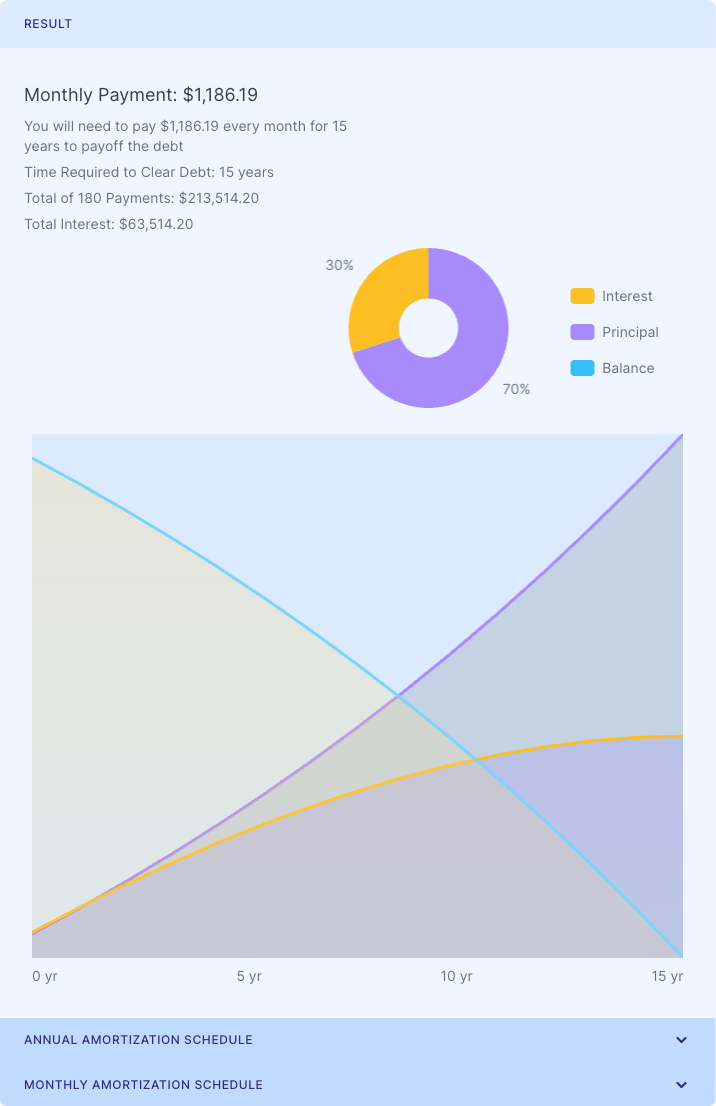
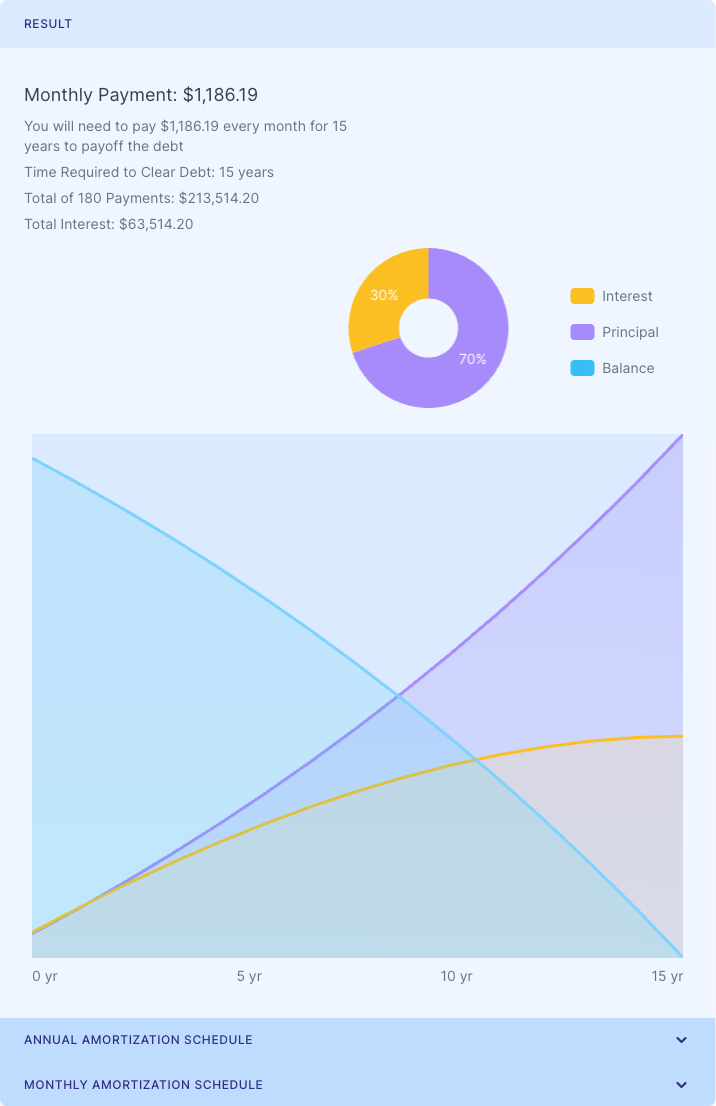
calculator changes commit

diff --git a/assets/js/chart.js b/assets/js/chart.js
@@ -22,6 +22,7 @@ import("./assets/js/lib/chartjs/chart.js").then((e) => {
 			tealGradientStart: 'rgba(56, 248, 222, 0.16)',
 			yellowGradientStop: 'rgba(250, 219, 139, 0)',
 			purpleGradientStop: 'rgba(104, 56, 248, 0)',
+			skyGradientStop: 'rgba(56, 248, 222, 0.16)',
 			gridColor: '#DBEAFE',
 			tooltipBackground: '#fff',
 			fractionColor: '#EDE9FE',
@@ -38,6 +39,7 @@ import("./assets/js/lib/chartjs/chart.js").then((e) => {
 			tealGradientStart: 'rgba(56, 248, 222, 0.16)',
 			yellowGradientStop: 'rgba(250, 219, 139, 0)',
 			purpleGradientStop: 'rgba(104, 56, 248, 0)',
+			skyGradientStop: 'rgba(56, 248, 222, 0.16)',
 			gridColor: '#162B64',
 			tooltipBackground: '#1C3782',
 			fractionColor: '#41467D',
@@ -84,17 +86,12 @@ import("./assets/js/lib/chartjs/chart.js").then((e) => {
 			data.datasets[0].data.forEach((datapoint, index) => {
 				const { x, y } = chart.getDatasetMeta(0).data[index].tooltipPosition();
 
-				let textXPosition = x >= 110 ? 'left' : 'right';
-
-				let xLine = x >= 110 ? x + 30 : x - 30;
-				let yLine = y >= 110 ? y + 30 : y - 30;
-
+				ctx.textAlign = 'center';
 				ctx.font = '14px Inter';
-				ctx.textAlign = textXPosition;
-				ctx.fillStyle = colors[theme].textColor;
+				ctx.fillStyle = '#fff';
 				ctx.textBaseline = 'middle';
-
-				ctx.fillText(`${datapoint}%`, xLine, yLine);
+				let toolTipText = datapoint != '0' ? datapoint + '%' : '';
+				ctx.fillText(toolTipText, x, y);
 			});
 		},
 	};
@@ -124,17 +121,12 @@ import("./assets/js/lib/chartjs/chart.js").then((e) => {
 				data.datasets[0].data.forEach((datapoint, index) => {
 					const { x, y } = chart.getDatasetMeta(0).data[index].tooltipPosition();
 
-					let textXPosition = x >= 110 ? 'left' : 'right';
-
-					let xLine = x >= 110 ? x + 30 : x - 30;
-					let yLine = y >= 110 ? y + 30 : y - 30;
-
+					ctx.textAlign = 'center';
 					ctx.font = '14px Inter';
-					ctx.textAlign = textXPosition;
-					ctx.fillStyle = colors[theme].textColor;
+					ctx.fillStyle = '#fff';
 					ctx.textBaseline = 'middle';
-
-					ctx.fillText(`${datapoint}%`, xLine, yLine);
+					let toolTipText = datapoint != '0' ? datapoint + '%' : '';
+					ctx.fillText(toolTipText, x, y);
 				});
 			},
 		};
@@ -148,7 +140,7 @@ import("./assets/js/lib/chartjs/chart.js").then((e) => {
 			plugins: [customDataLabels],
 		});
 
-		donutBig.data.datasets[0].backgroundColor = [colors[theme].purple, colors[theme].sky, colors[theme].yellow];
+		donutBig.data.datasets[0].backgroundColor = [colors[theme].purple, colors[theme].yellow];
 		donutBig.update()
 	}
 
@@ -163,6 +155,10 @@ import("./assets/js/lib/chartjs/chart.js").then((e) => {
 	let purpleGradient = ctx.createLinearGradient(0, 0, 0, 1024);
 	purpleGradient.addColorStop(0, colors[theme].purpleGradientStart);
 	purpleGradient.addColorStop(1, colors[theme].purpleGradientStop);
+
+	let skyGradient = ctx.createLinearGradient(0, 0, 0, 1024);
+	skyGradient.addColorStop(0, colors[theme].skyGradientStart);
+	skyGradient.addColorStop(1, colors[theme].skyGradientStop);
 
 	let tooltip = {
 		enabled: false,
@@ -243,7 +239,7 @@ import("./assets/js/lib/chartjs/chart.js").then((e) => {
 				pointHoverBorderColor: '#5045E5',
 				stacked: true,
 				borderColor: colors[theme].sky,
-				backgroundColor: yellowGradient,
+				backgroundColor: skyGradient,
 				fill: true,
 			},
 			{
@@ -257,7 +253,7 @@ import("./assets/js/lib/chartjs/chart.js").then((e) => {
 				pointHoverBorderColor: '#5045E5',
 				stacked: true,
 				borderColor: colors[theme].yellow,
-				backgroundColor: purpleGradient,
+				backgroundColor: yellowGradient,
 				fill: true,
 			},
 			{
@@ -269,10 +265,9 @@ import("./assets/js/lib/chartjs/chart.js").then((e) => {
 				pointHoverBorderWidth: 2,
 				pointHoverRadius: 6,
 				pointHoverBorderColor: '#5045E5',
-				stack: 'combined',
 				stacked: true,
 				borderColor: colors[theme].purple,
-				// backgroundColor: colors[theme].sky,
+				backgroundColor: purpleGradient,
 				fill: true,
 			},
 		],
@@ -335,11 +330,12 @@ import("./assets/js/lib/chartjs/chart.js").then((e) => {
 			yellowGradient.addColorStop(1, colors[theme].yellowGradientStop);
 			purpleGradient.addColorStop(0, colors[theme].purpleGradientStart);
 			purpleGradient.addColorStop(1, colors[theme].purpleGradientStop);
-			chartLoan.data.datasets[0].backgroundColor = yellowGradient;
-			chartLoan.data.datasets[0].borderColor = colors[theme].yellow;
-			chartLoan.data.datasets[1].backgroundColor = purpleGradient;
-			chartLoan.data.datasets[1].borderColor = colors[theme].purple;
-			chartLoan.data.datasets[2].backgroundColor = colors[theme].sky;
+			chartLoan.data.datasets[0].backgroundColor = skyGradient;
+			chartLoan.data.datasets[0].borderColor = colors[theme].sky;
+			chartLoan.data.datasets[2].backgroundColor = purpleGradient;
+			chartLoan.data.datasets[2].borderColor = colors[theme].purple;
+			chartLoan.data.datasets[1].backgroundColor = yellowGradient;
+			chartLoan.data.datasets[1].borderColor = colors[theme].yellow;
 			chartLoan.options.scales.y.grid.color = colors[theme].gridColor;
 			chartLoan.options.scales.x.grid.color = colors[theme].gridColor;
 			chartLoan.options.scales.y.ticks.color = colors[theme].gridColor;

diff --git a/assets/js/all-calculators.js b/assets/js/all-calculators.js
@@ -517,7 +517,7 @@ var allCalculators = [
     },
     {
         "title": "Work Hours Calculator",
-        "description": "Work hours calculator helps employees accurately calculate the number of hours worked each week with settings to account for breaks, hourly rounding, and military time. ",
+        "description": "Work hours calculator helps employees accurately calculate the number of hours worked each week with settings to account for breaks, hourly rounding, and military time.",
         "uri": "/work-hours-calculator/",
         "image": "../images/icon-96.png"
     },
@@ -528,7 +528,7 @@ var allCalculators = [
         "image": "../images/icon-96.png"
     },
     {
-        "title": "Fraction to percent calculator",
+        "title": "Fraction to Percent Calculator",
         "description": "Fraction to percent calculator converts proper and improper fractions to percentages. Calculator is using fraction-decimal-percent algorithm.",
         "uri": "/fraction-to-percent-calculator/",
         "image": "../images/icon-96.png"
@@ -723,6 +723,12 @@ var allCalculators = [
         "title": "Margin Calculator",
         "description": "Free margin calculator using the margin formula ((R - C) / R) × 100 to help businesses quickly calculate both margin and markup percentages based on cost and sale price.",
         "uri": "/margin-calculator/",
+        "image": "../images/icon-96.png"
+    },
+    {
+        "title": "Pace Calculator",
+        "description": "This free pace calculator computes pace, distance and time by setting values of two variables. You can use it for training purposes.",
+        "uri": "/pace-calculator/",
         "image": "../images/icon-96.png"
     },
     {
